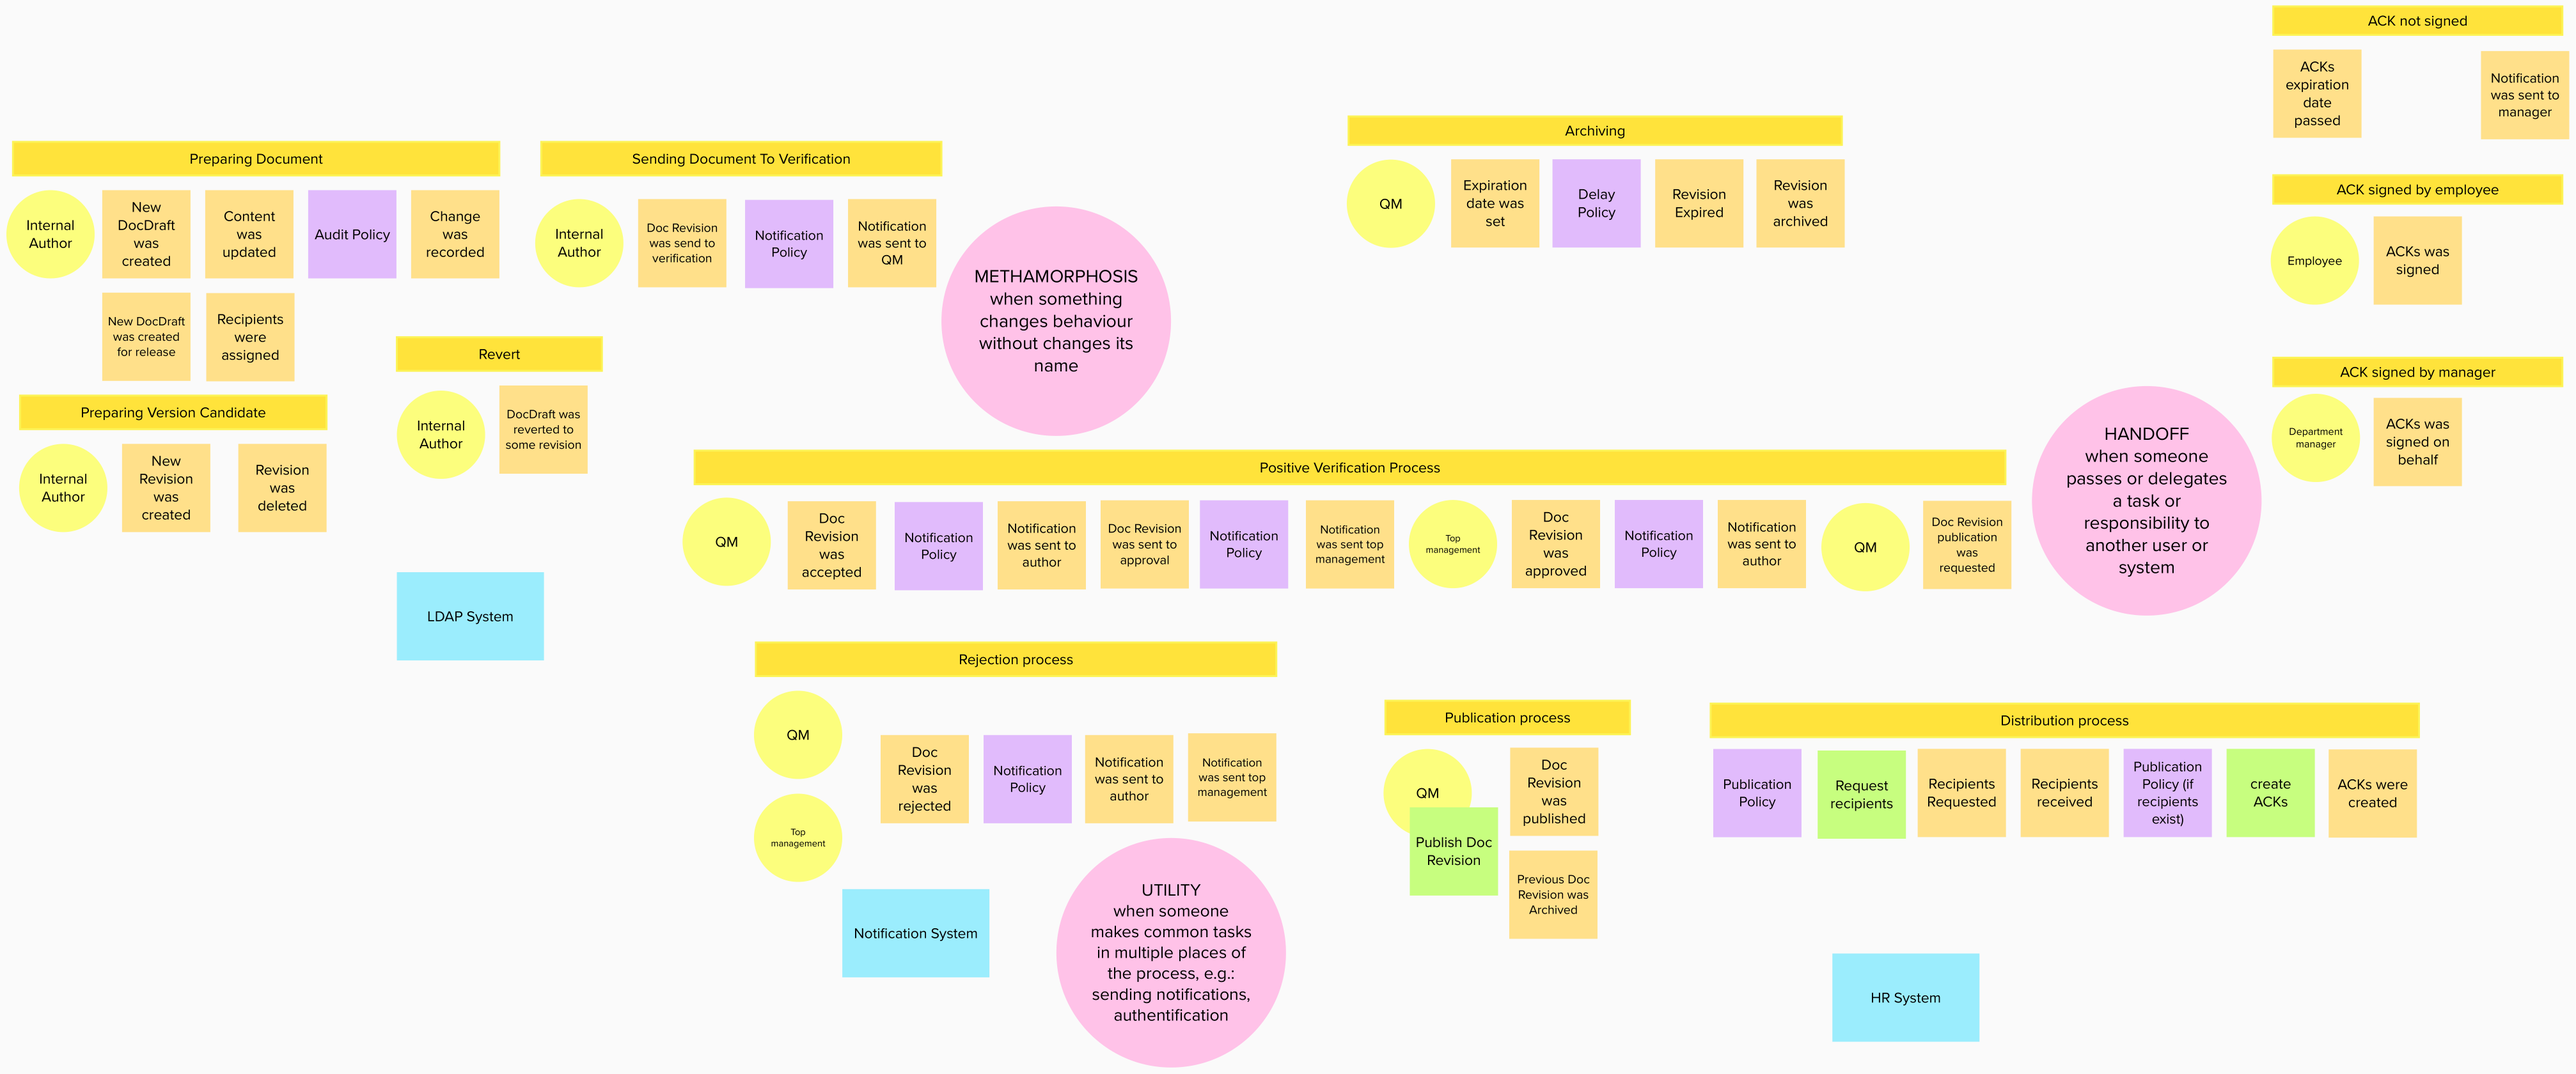
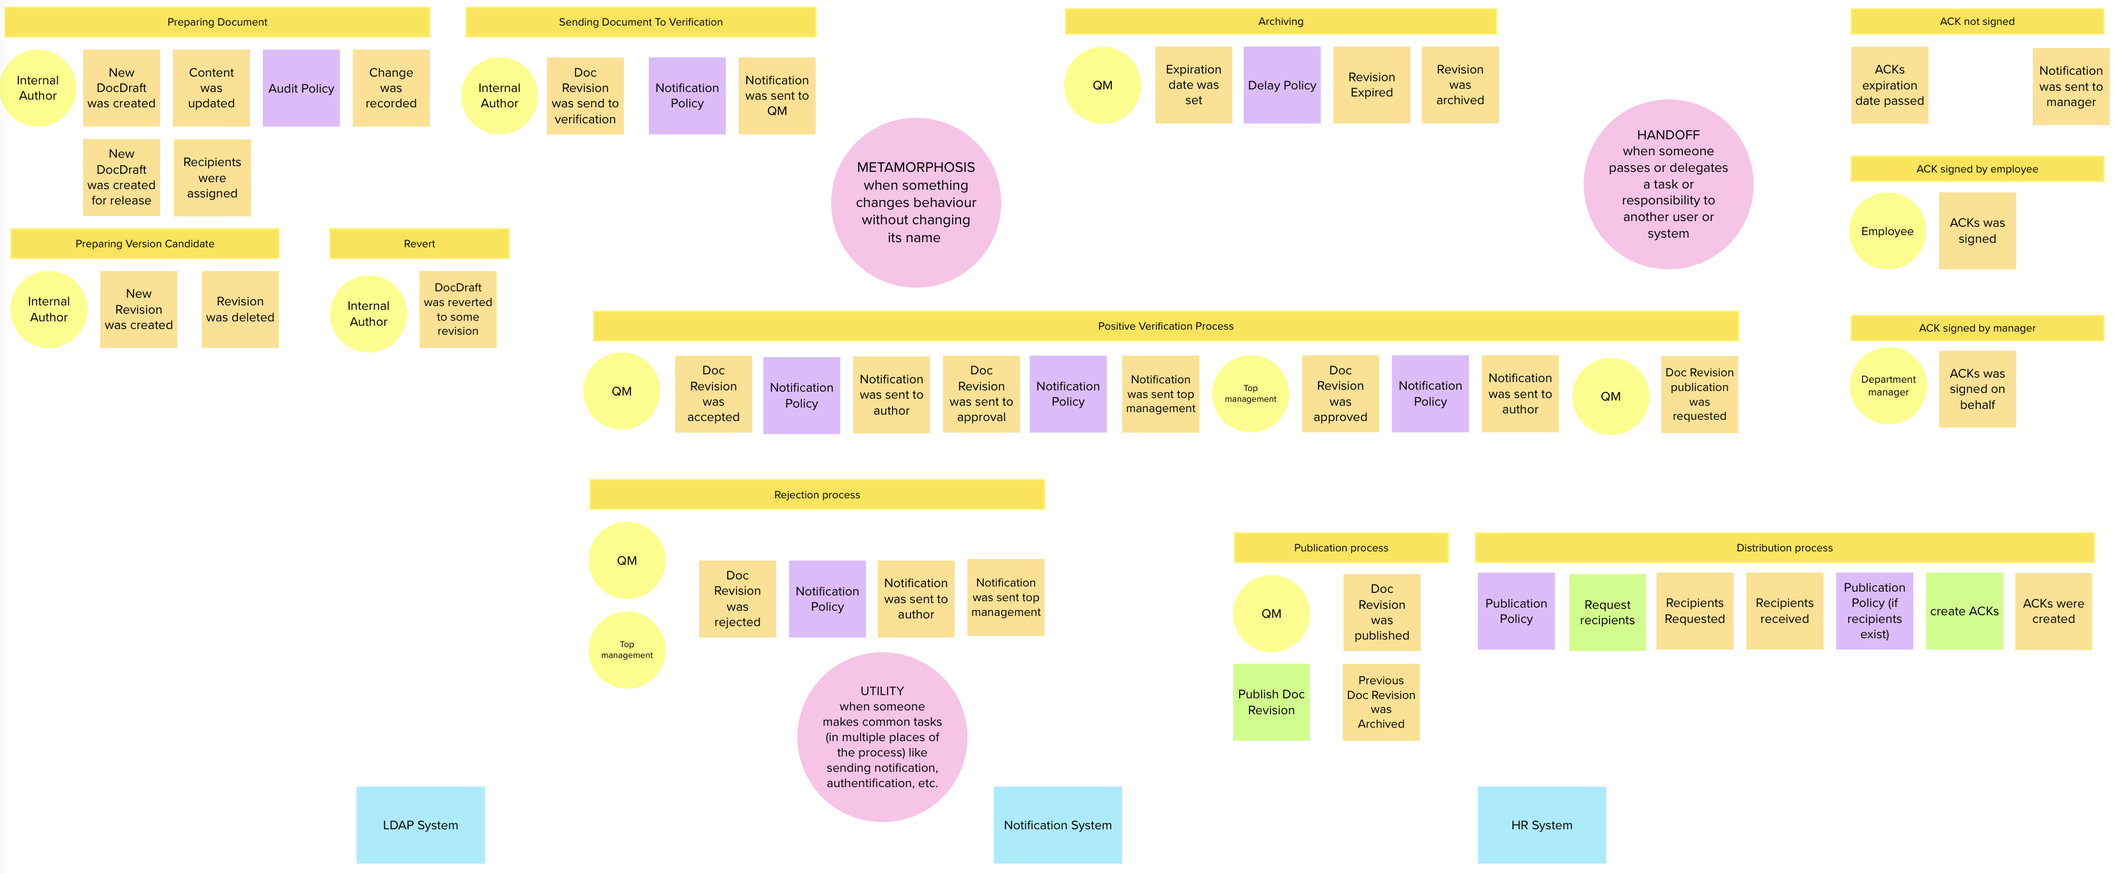
add event storming legend and better overview of system

diff --git a/index.html b/index.html
@@ -82,8 +82,25 @@
 						# Let's code
 						--
 						### Document Management System
+						preparation<!-- .element: class="cyan"-->
 
-						![](assets/domain.png)
+						![](assets/domain-prep.png)
+						--
+						### Document Management System
+						verification<!-- .element: class="cyan"-->
+
+						![](assets/domain-ver.png)
+						--
+						### Document Management System
+						signing documents<!-- .element: class="cyan"-->
+
+						![](assets/domain-ack.png)
+						--
+						### Domain Driven Design
+
+						event storming elements<!-- .element: class="cyan"-->
+
+						![](assets/domain-event-storming-legend.png)
 						--
 						### Domain Driven Design
 
